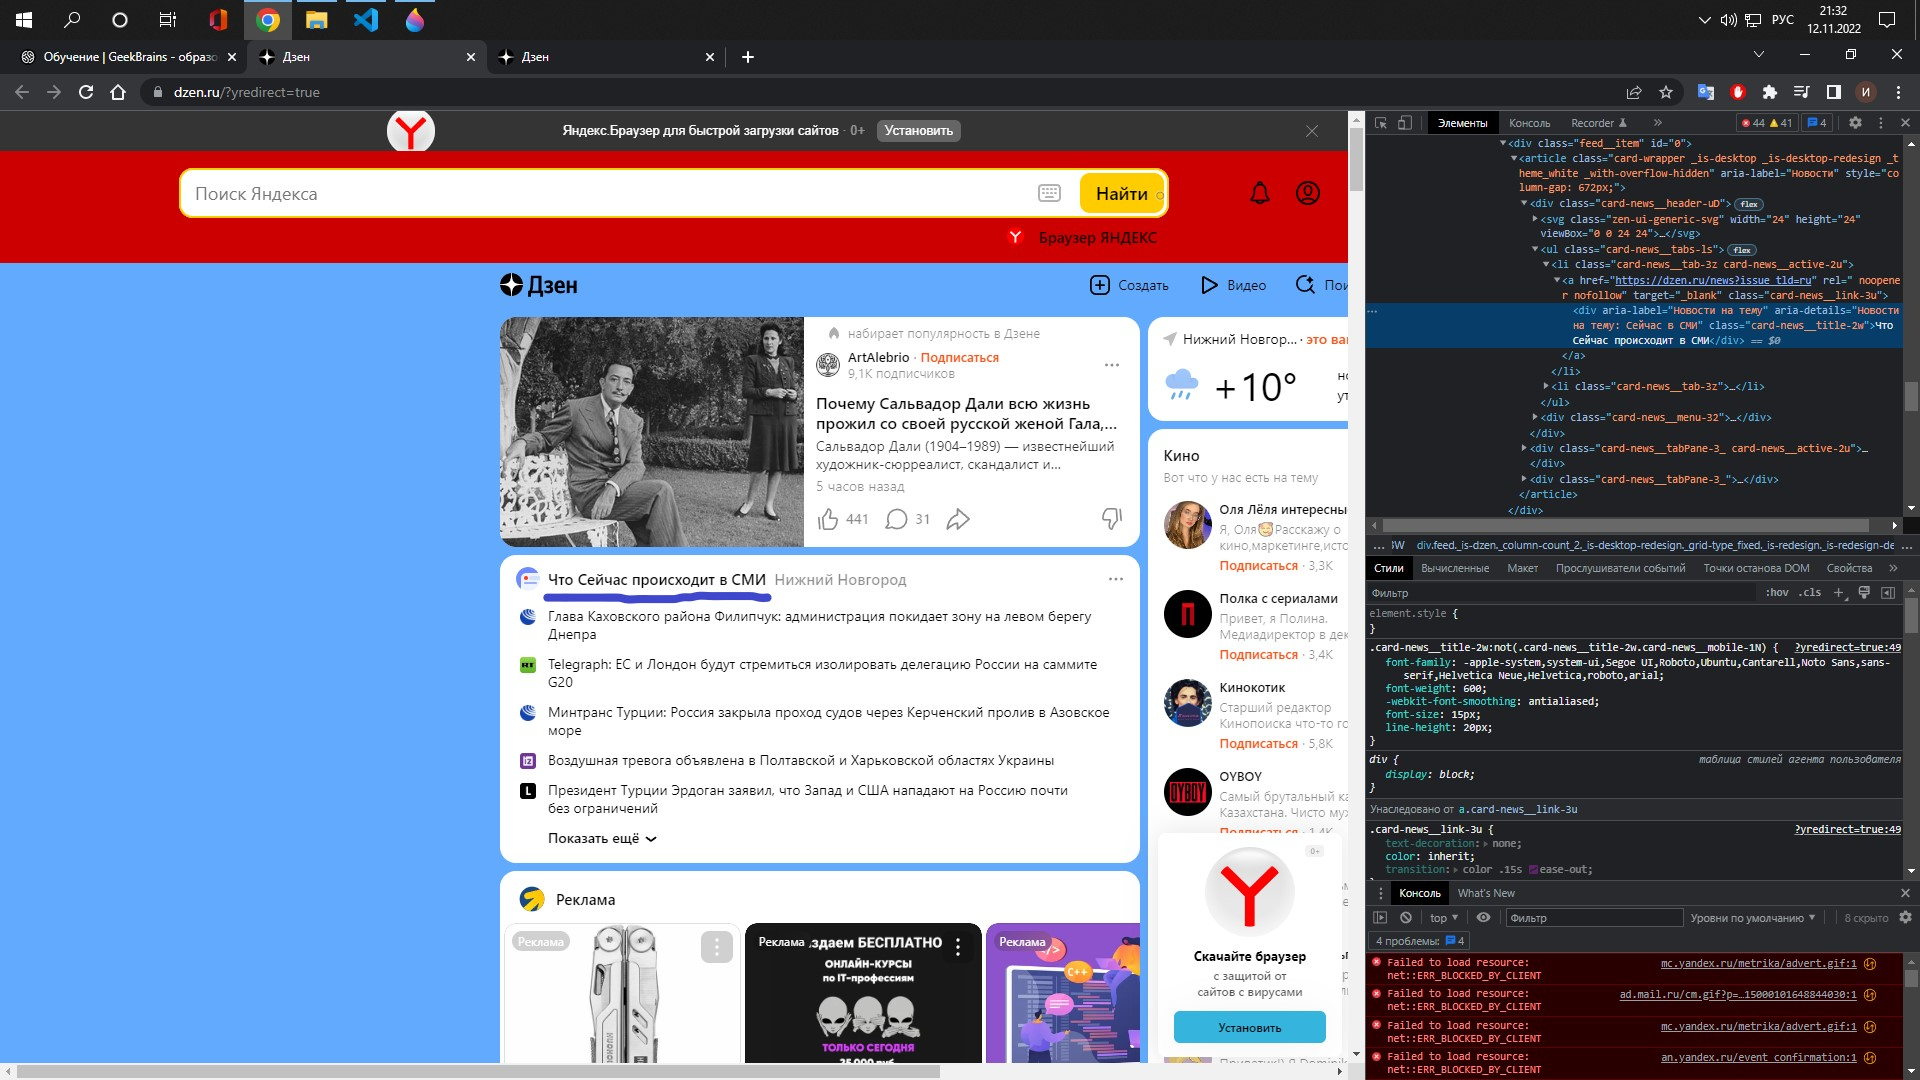
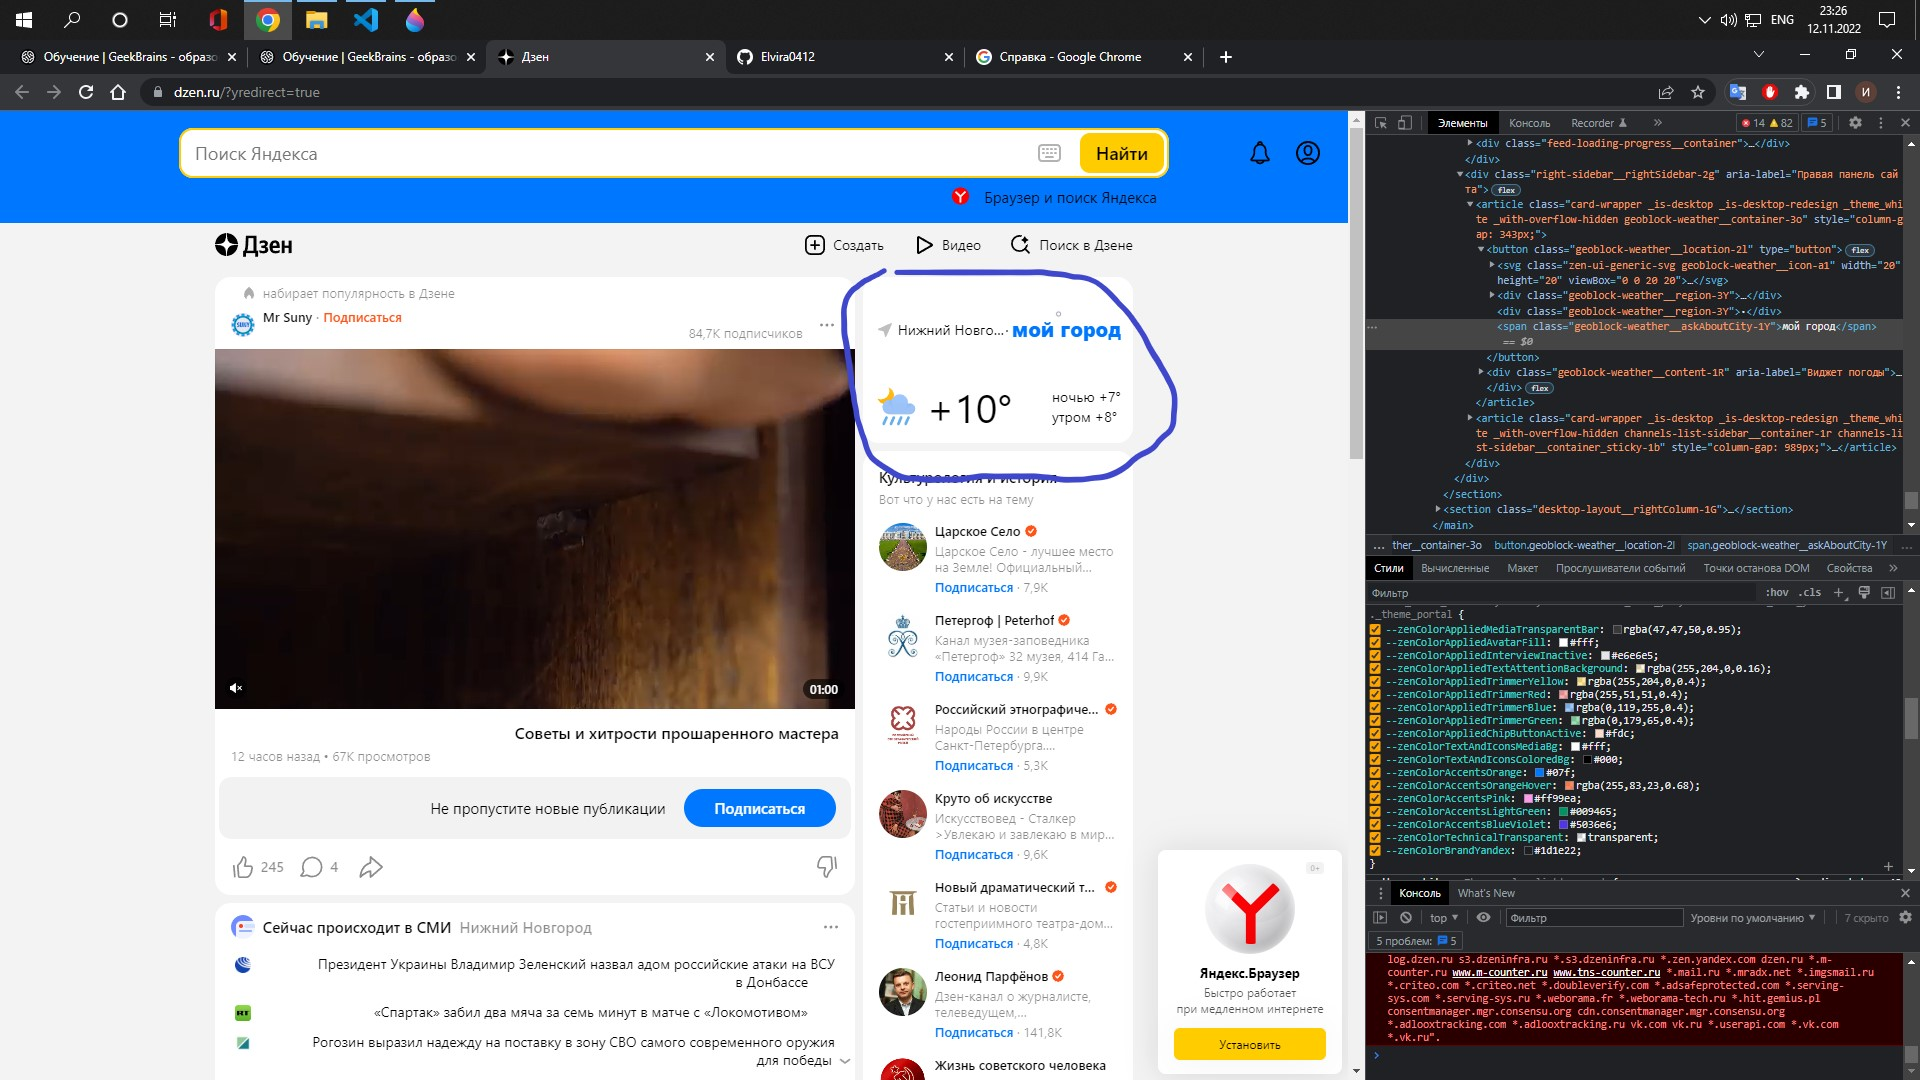
редактирование

diff --git a/work1.md b/work1.md
@@ -1,1 +1,15 @@
-Сайт yandex.ru работает на протоколе htpps.
+1. Сайт yandex.ru работает на протоколе htpps.
+2. сайт состоит из шапки(header) и контента(content).
+3. 
+    1. изменила цвет фона контента
+    2. изменила цвет фона шапки
+    3. сместила контент левее
+    4. сместила контент правее
+    5. фон поиска стал желтым
+    6. оформление поиска стало прямоугольным
+    7. расстояние между погодой и новостной строкой увеличилось
+    8. текст в контенте был слева, стал справа
+    9. изменила текст 
+    10. изменила текст
+    11. изменила блок погоды, текс, шрифт, цвет текста, размер самого блока.
+    12. удалила блок дзен
